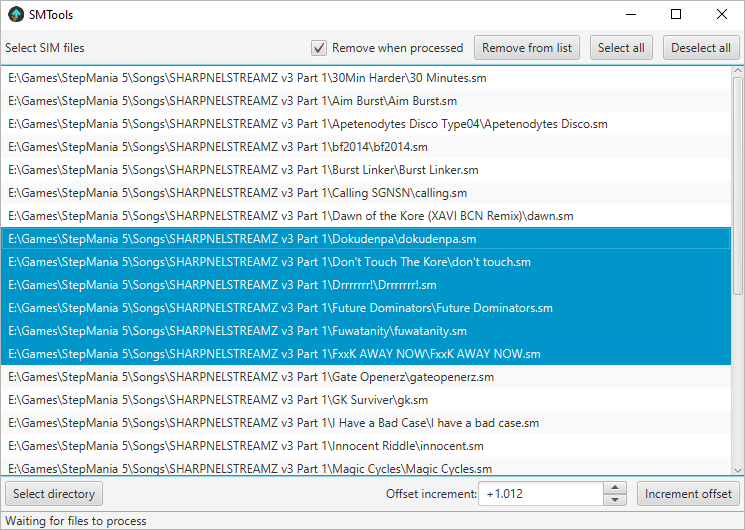
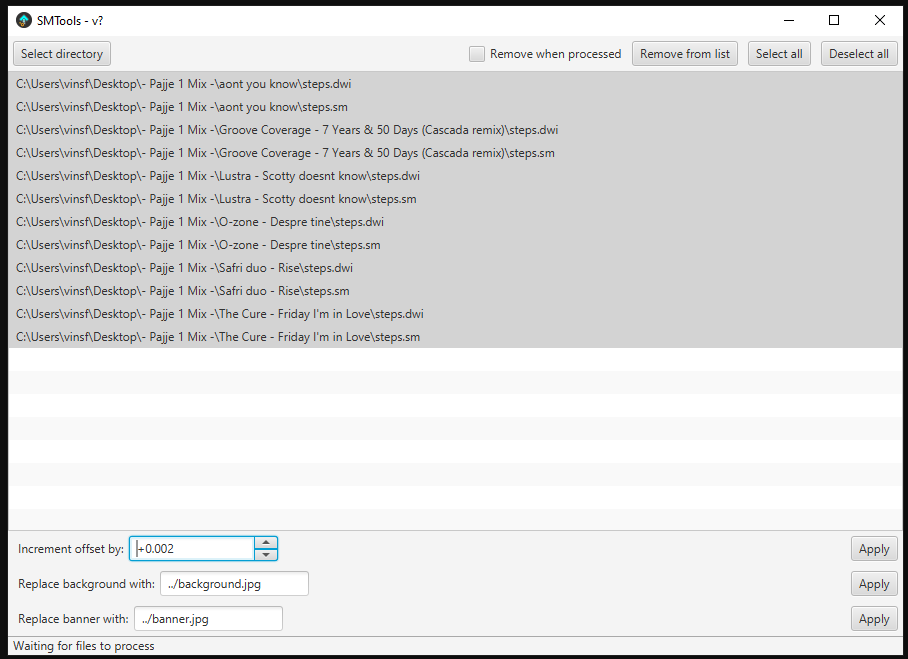
Update README.md and screenshot.

diff --git a/README.md b/README.md
@@ -17,10 +17,9 @@ A collection of tools for stepmania
 * [Acknowledgements](#acknowledgements)
 
 ## Features
-- Offset incrementer: Increment/Decrement the offset of a set of SIM files by a given amount
-
-**Upcoming**
-- Set Banner and Background: Set a given banner/background to a set of SIM files
+- Offset incrementer: Bulk increment/Decrement the offset of a set of SIM files by a given amount
+- Background replacer: Bulk replace the background string of a set of SIM files.
+- Banner replacer: Bulk replace the banner string of a set of SIM files.
 
 ## Installation
 The application is provided as an executable JAR file in the release package and
